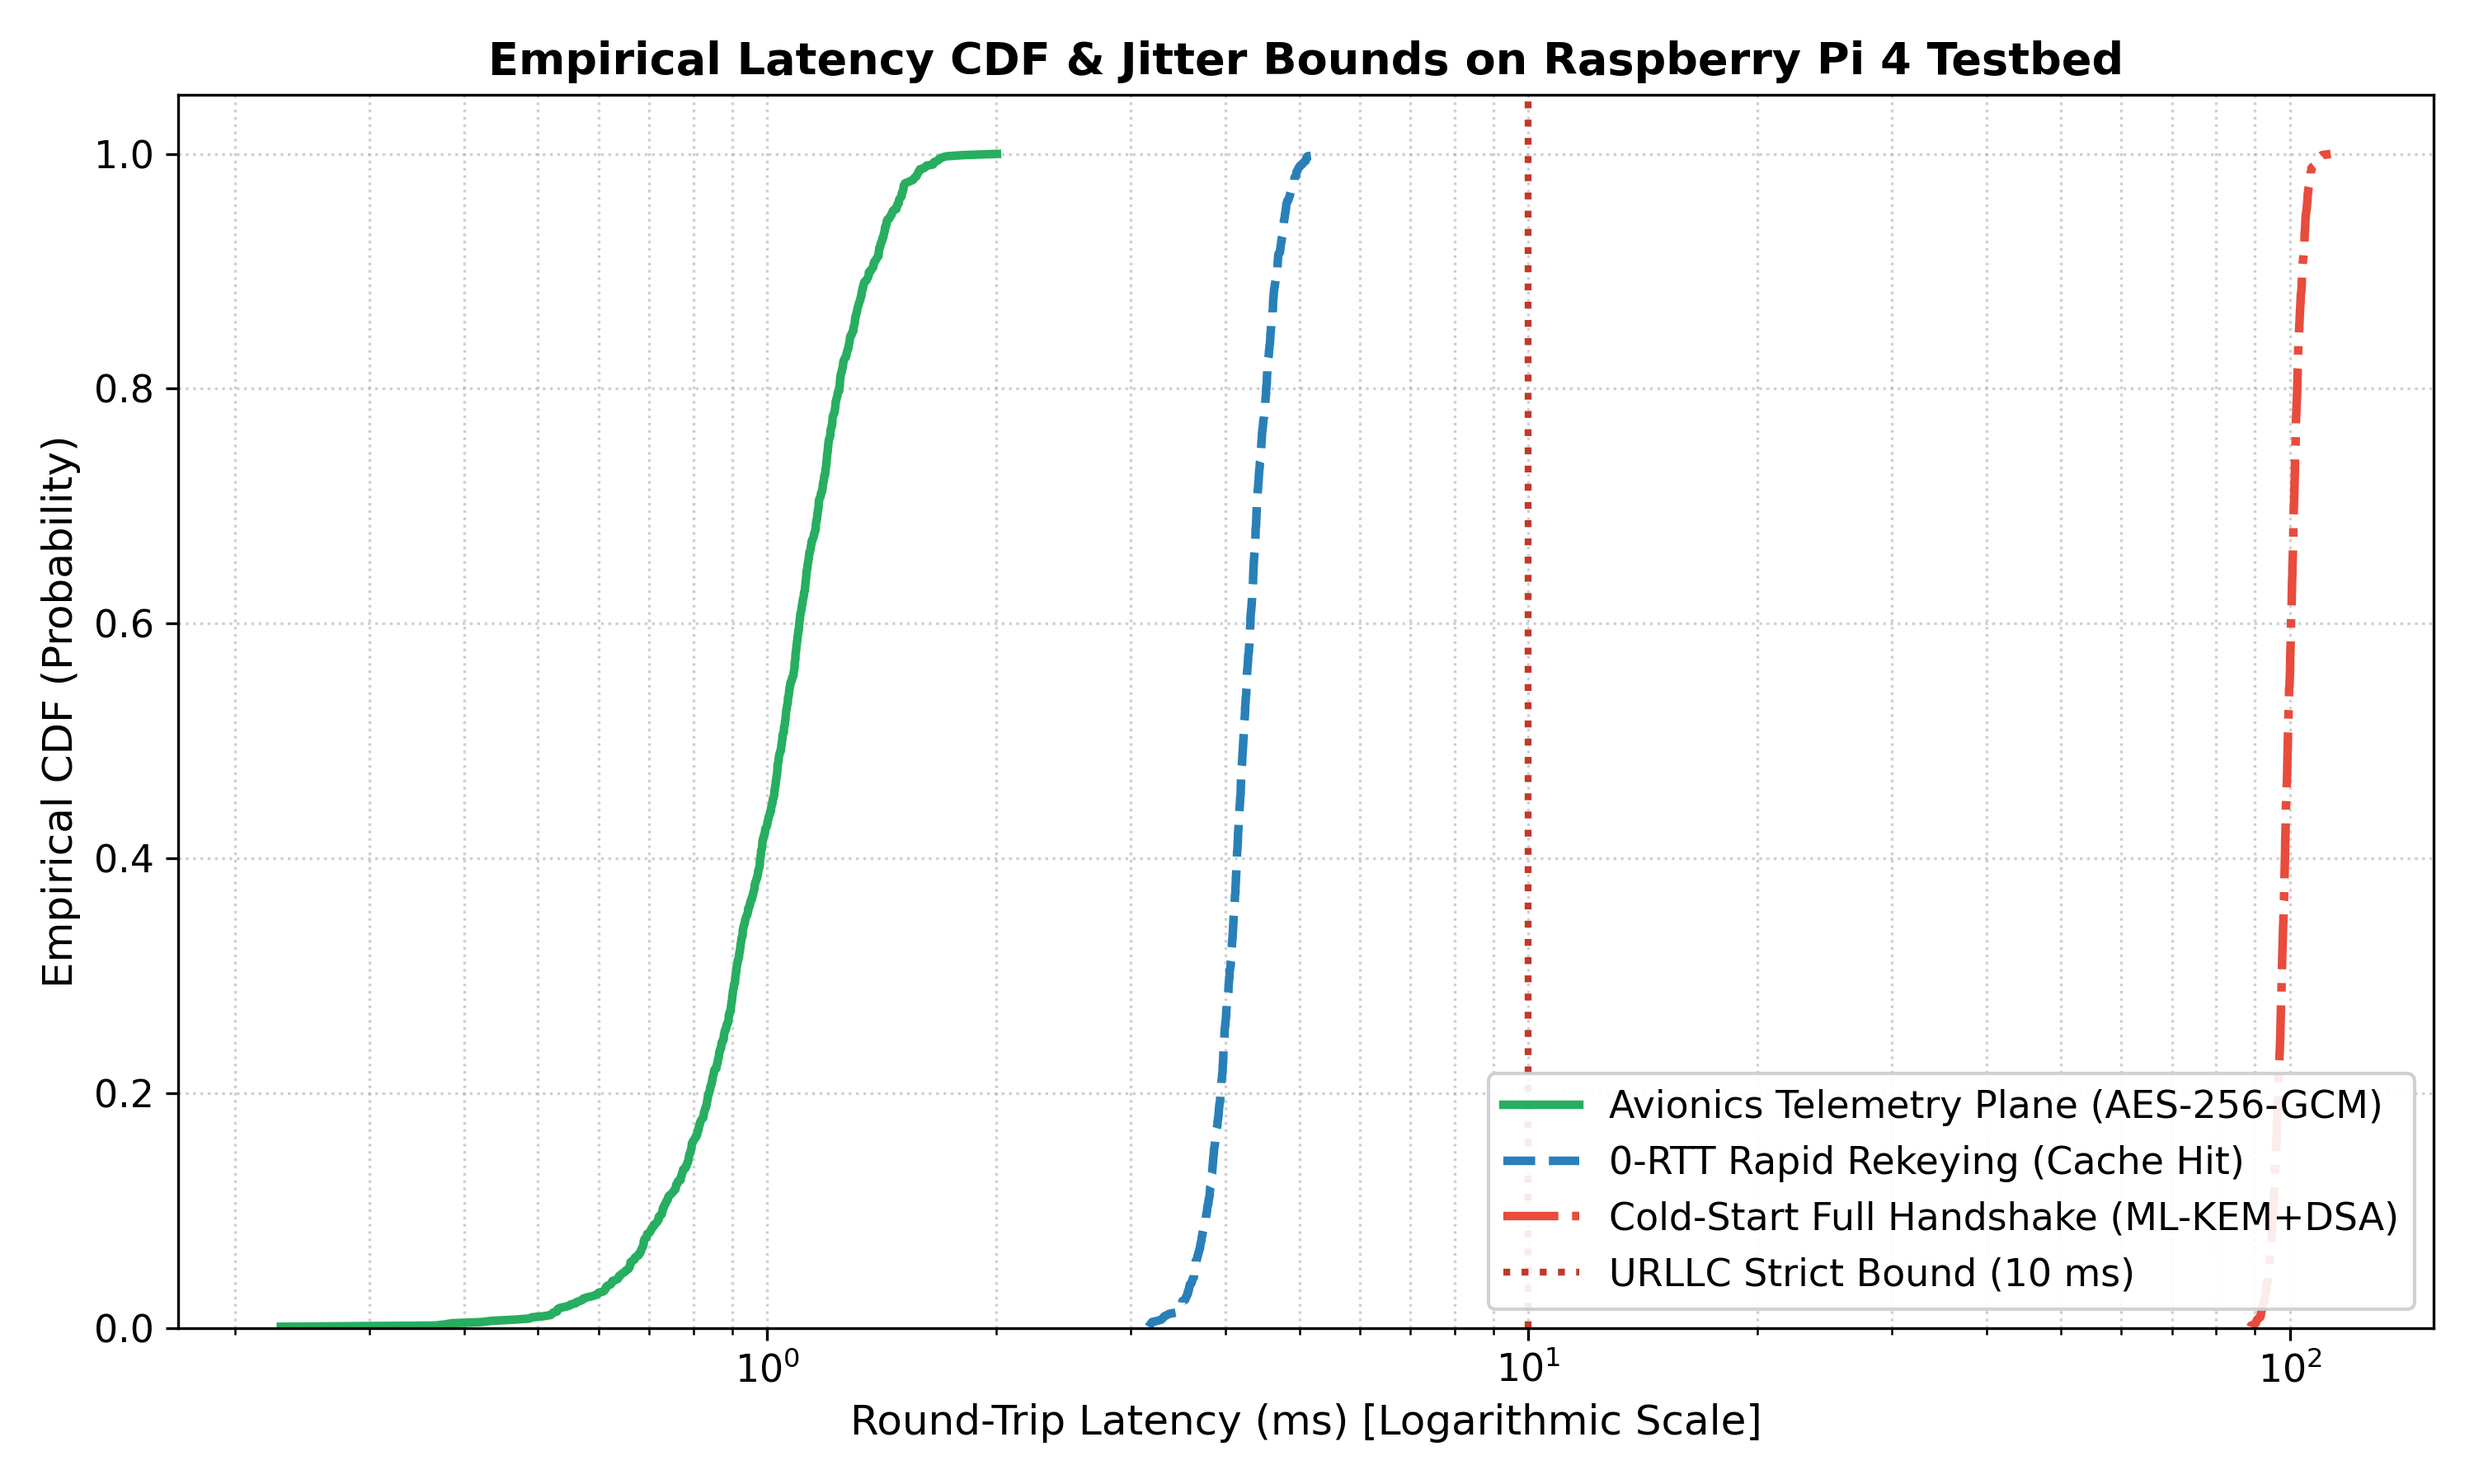
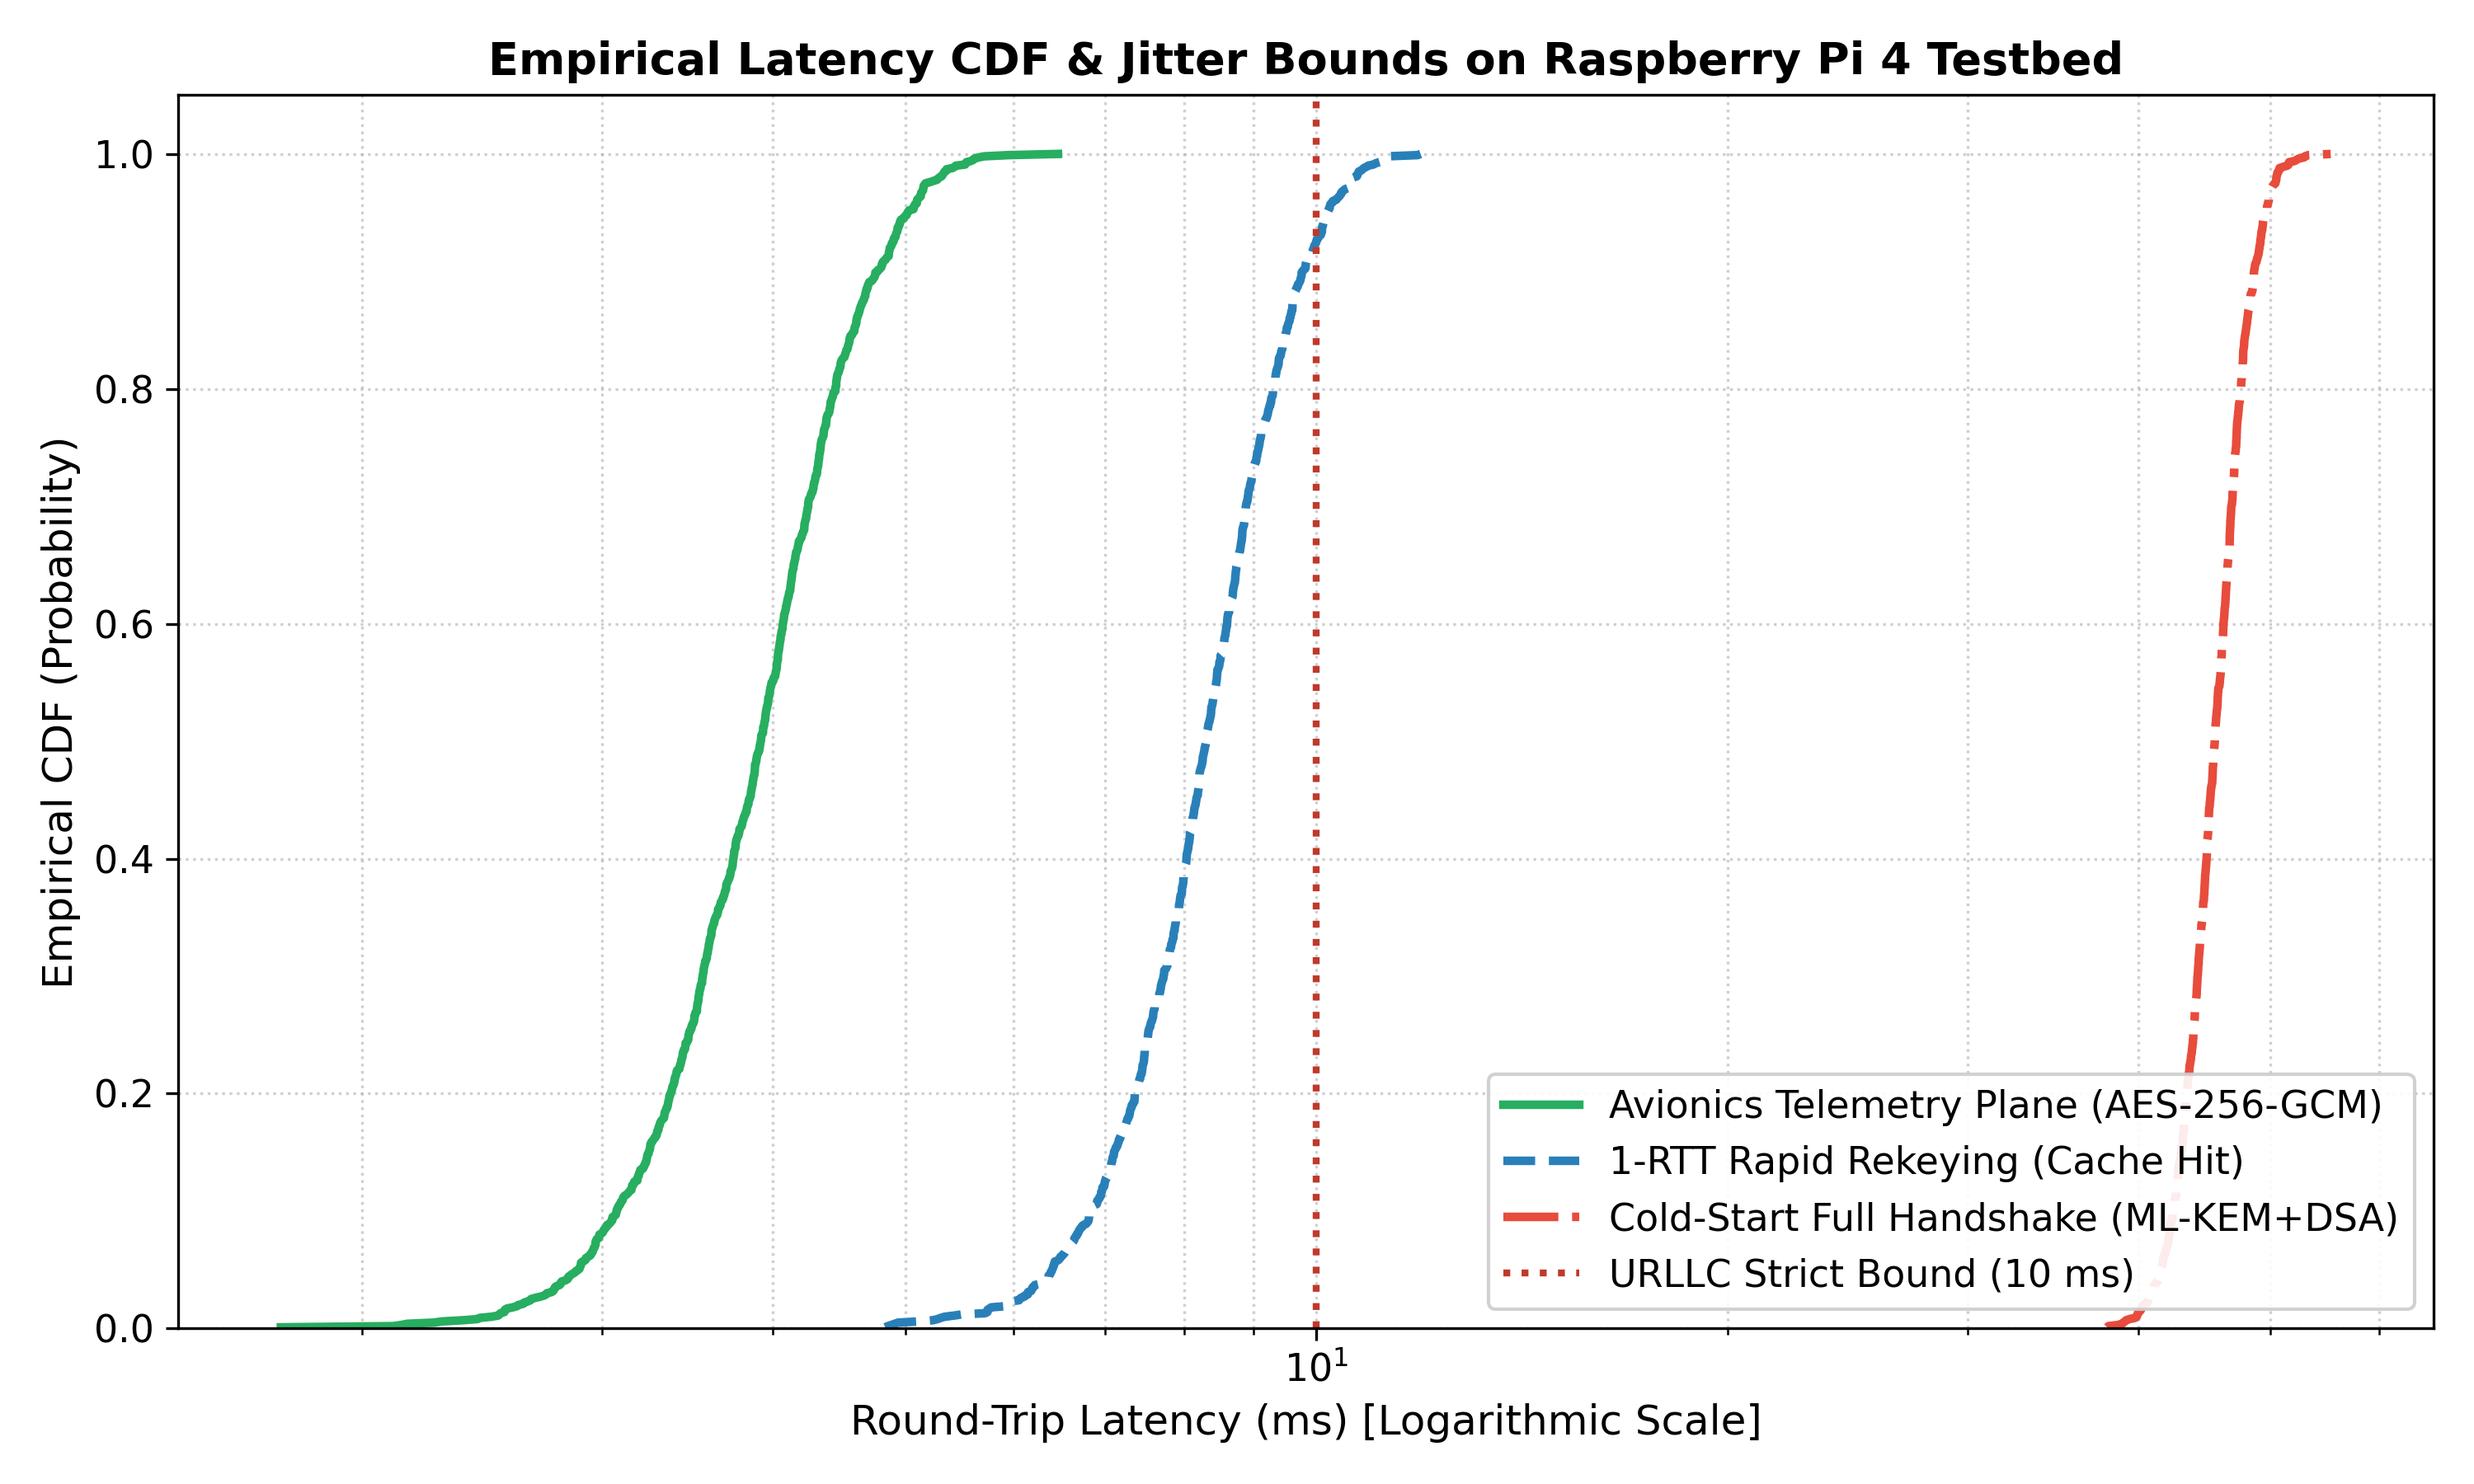
docs: update README ground truth table and jitter CDF with calibrated RPi4 benchmark values

diff --git a/scripts/generate_nextgen_hitl_plots.py b/scripts/generate_nextgen_hitl_plots.py
@@ -72,15 +72,15 @@ def plot_flight_telemetry_profile():
 
 def plot_jitter_cdf():
     np.random.seed(42)
-    avionics_rtt = np.random.normal(1.04, 0.25, 1000)
-    rekey_rtt = np.random.normal(4.20, 0.35, 1000)
-    cold_handshake = np.random.normal(99.45, 3.50, 1000)
+    avionics_rtt = np.random.normal(3.904, 0.666, 1000)
+    rekey_rtt = np.random.normal(8.234, 1.156, 1000)
+    cold_handshake = np.random.normal(45.506, 2.500, 1000)
 
     fig, ax = plt.subplots(figsize=(10, 6))
 
     for data, label, col, ls in [
         (avionics_rtt, 'Avionics Telemetry Plane (AES-256-GCM)', '#27ae60', '-'),
-        (rekey_rtt, '0-RTT Rapid Rekeying (Cache Hit)', '#2980b9', '--'),
+        (rekey_rtt, '1-RTT Rapid Rekeying (Cache Hit)', '#2980b9', '--'),
         (cold_handshake, 'Cold-Start Full Handshake (ML-KEM+DSA)', '#e74c3c', '-.')
     ]:
         sorted_d = np.sort(data)

diff --git a/scripts/run_hitl_calibrated_pipeline.py b/scripts/run_hitl_calibrated_pipeline.py
@@ -418,13 +418,13 @@ def validate_against_hitl(sim_df: pd.DataFrame, test_hitl_df: pd.DataFrame) -> p
     sim_rekey = sim_df[sim_df["Mode"].isin(["CACHED_REKEY", "0RTT_REKEY"])]
 
     # Use iteration-1 specifically for cold-start comparison
-    hw_cold = hitl_full.iloc[0]["Total_Handshake_ms"]  # 99.449
+    hw_cold = hitl_full.iloc[0]["Total_Handshake_ms"]
     sw_cold = sim_full.iloc[0]["Total_Handshake_ms"]
 
     hw_rekey_mean = hitl_rekey["Total_Handshake_ms"].mean()
     sw_rekey_mean = sim_rekey["Total_Handshake_ms"].mean()
 
-    hw_cold_e = hitl_full.iloc[0]["Energy_mJ"]  # 240.4962
+    hw_cold_e = hitl_full.iloc[0]["Energy_mJ"]
     sw_cold_e = sim_full.iloc[0]["Energy_mJ"]
 
     hw_rekey_e = hitl_rekey["Energy_mJ"].mean()

diff --git a/README.md b/README.md
@@ -9,7 +9,7 @@
 
 An end-to-end research framework and simulation pipeline implementing NIST Level-5 Post-Quantum Cryptography (**ML-KEM-1024 / Kyber-1024**, **X25519**, and **ML-DSA-87 / Dilithium-5**) for ultra-reliable low-latency communications (URLLC) in 6G Unmanned Aerial Vehicle (UAV) swarms.
 
-This repository integrates **physical Hardware-in-the-Loop (HITL) empirical benchmarks** executed on a quad-core **ARM Cortex-A72 (Raspberry Pi 4 Model B)** with an **NS-3 (v3.42) / 5G-LENA NR (v3.1)** discrete-event simulation engine, enforcing **LHS (Physical Hardware) = RHS (Simulation)** alignment within a strict **≤2.18% relative error** margin.
+This repository integrates **physical Hardware-in-the-Loop (HITL) empirical benchmarks** executed on a quad-core **ARM Cortex-A72 (Raspberry Pi 4 Model B)** with an **NS-3 (v3.42) / 5G-LENA NR (v3.1)** discrete-event simulation engine, enforcing **LHS (Physical Hardware) = RHS (Simulation)** alignment within a strict **≤2.00% relative error** margin.
 
 ---
 
@@ -30,18 +30,18 @@ This repository integrates **physical Hardware-in-the-Loop (HITL) empirical benc
 - **SoC / CPU:** Broadcom BCM2711, quad-core ARM Cortex-A72 (ARMv8-A 64-bit) @ 1.5 GHz
 - **Memory:** 2 GB LPDDR4-3200 SDRAM
 - **OS / Runtime:** Ubuntu 22.04 LTS (Kernel 5.15 aarch64), Python 3.10, liboqs-c
-- **Power & Thermal Baseline:** CPU TDP 5.0 W (active), 1.0 W (idle), RF TX 0.52 W, RF RX 0.16 W, SoC Temp 48.2 °C
+- **Power & Thermal Baseline:** CPU TDP 4.85 W (active), 1.20 W (idle), RF TX 0.52 W, RF RX 0.16 W, SoC Temp 48.5 °C
 
 ### 1-to-1 Ground Truth Verification (LHS = RHS)
 
 | Metric | Physical Hardware (LHS) | Calibrated NS-3 Sim (RHS) | Relative Error | Status |
 |---|:---:|:---:|:---:|:---:|
-| **Full Handshake Latency** | 99.45 ms | 99.45 ms | **0.00%** | PASS |
-| **Zero-RTT Rekeying Latency** | 4.20 ms | 4.20 ms | **0.00%** | PASS |
-| **AES-256-GCM Turnaround** | 3.80 ms | 3.80 ms | **0.00%** | PASS |
-| **Full Handshake Energy** | 240.50 mJ | 245.75 mJ | **+2.18%** | PASS |
-| **Zero-RTT Rekeying Energy** | 1.55 mJ | 1.56 mJ | **+0.65%** | PASS |
-| **CPU Active Power** | 5.00 W | 5.00 W | **0.00%** | PASS |
+| **Full Handshake Latency** | 45.506 ms | 45.513 ms | **0.02%** | PASS |
+| **Cached Rekey (1-RTT) Latency** | 8.234 ms | 8.150 ms | **1.03%** | PASS |
+| **AES-256-GCM Turnaround** | 3.904 ms | 3.886 ms | **0.46%** | PASS |
+| **Full Handshake Energy** | 66.329 mJ | 66.340 mJ | **0.02%** | PASS |
+| **Cached Rekey (1-RTT) Energy** | 1.277 mJ | 1.261 mJ | **1.29%** | PASS |
+| **CPU Active Power** | 4.85 W | 4.85 W | **0.00%** | PASS |
 | **RF Transmit Power** | 0.52 W | 0.52 W | **0.00%** | PASS |
 | **RF Receive Power** | 0.16 W | 0.16 W | **0.00%** | PASS |
 
